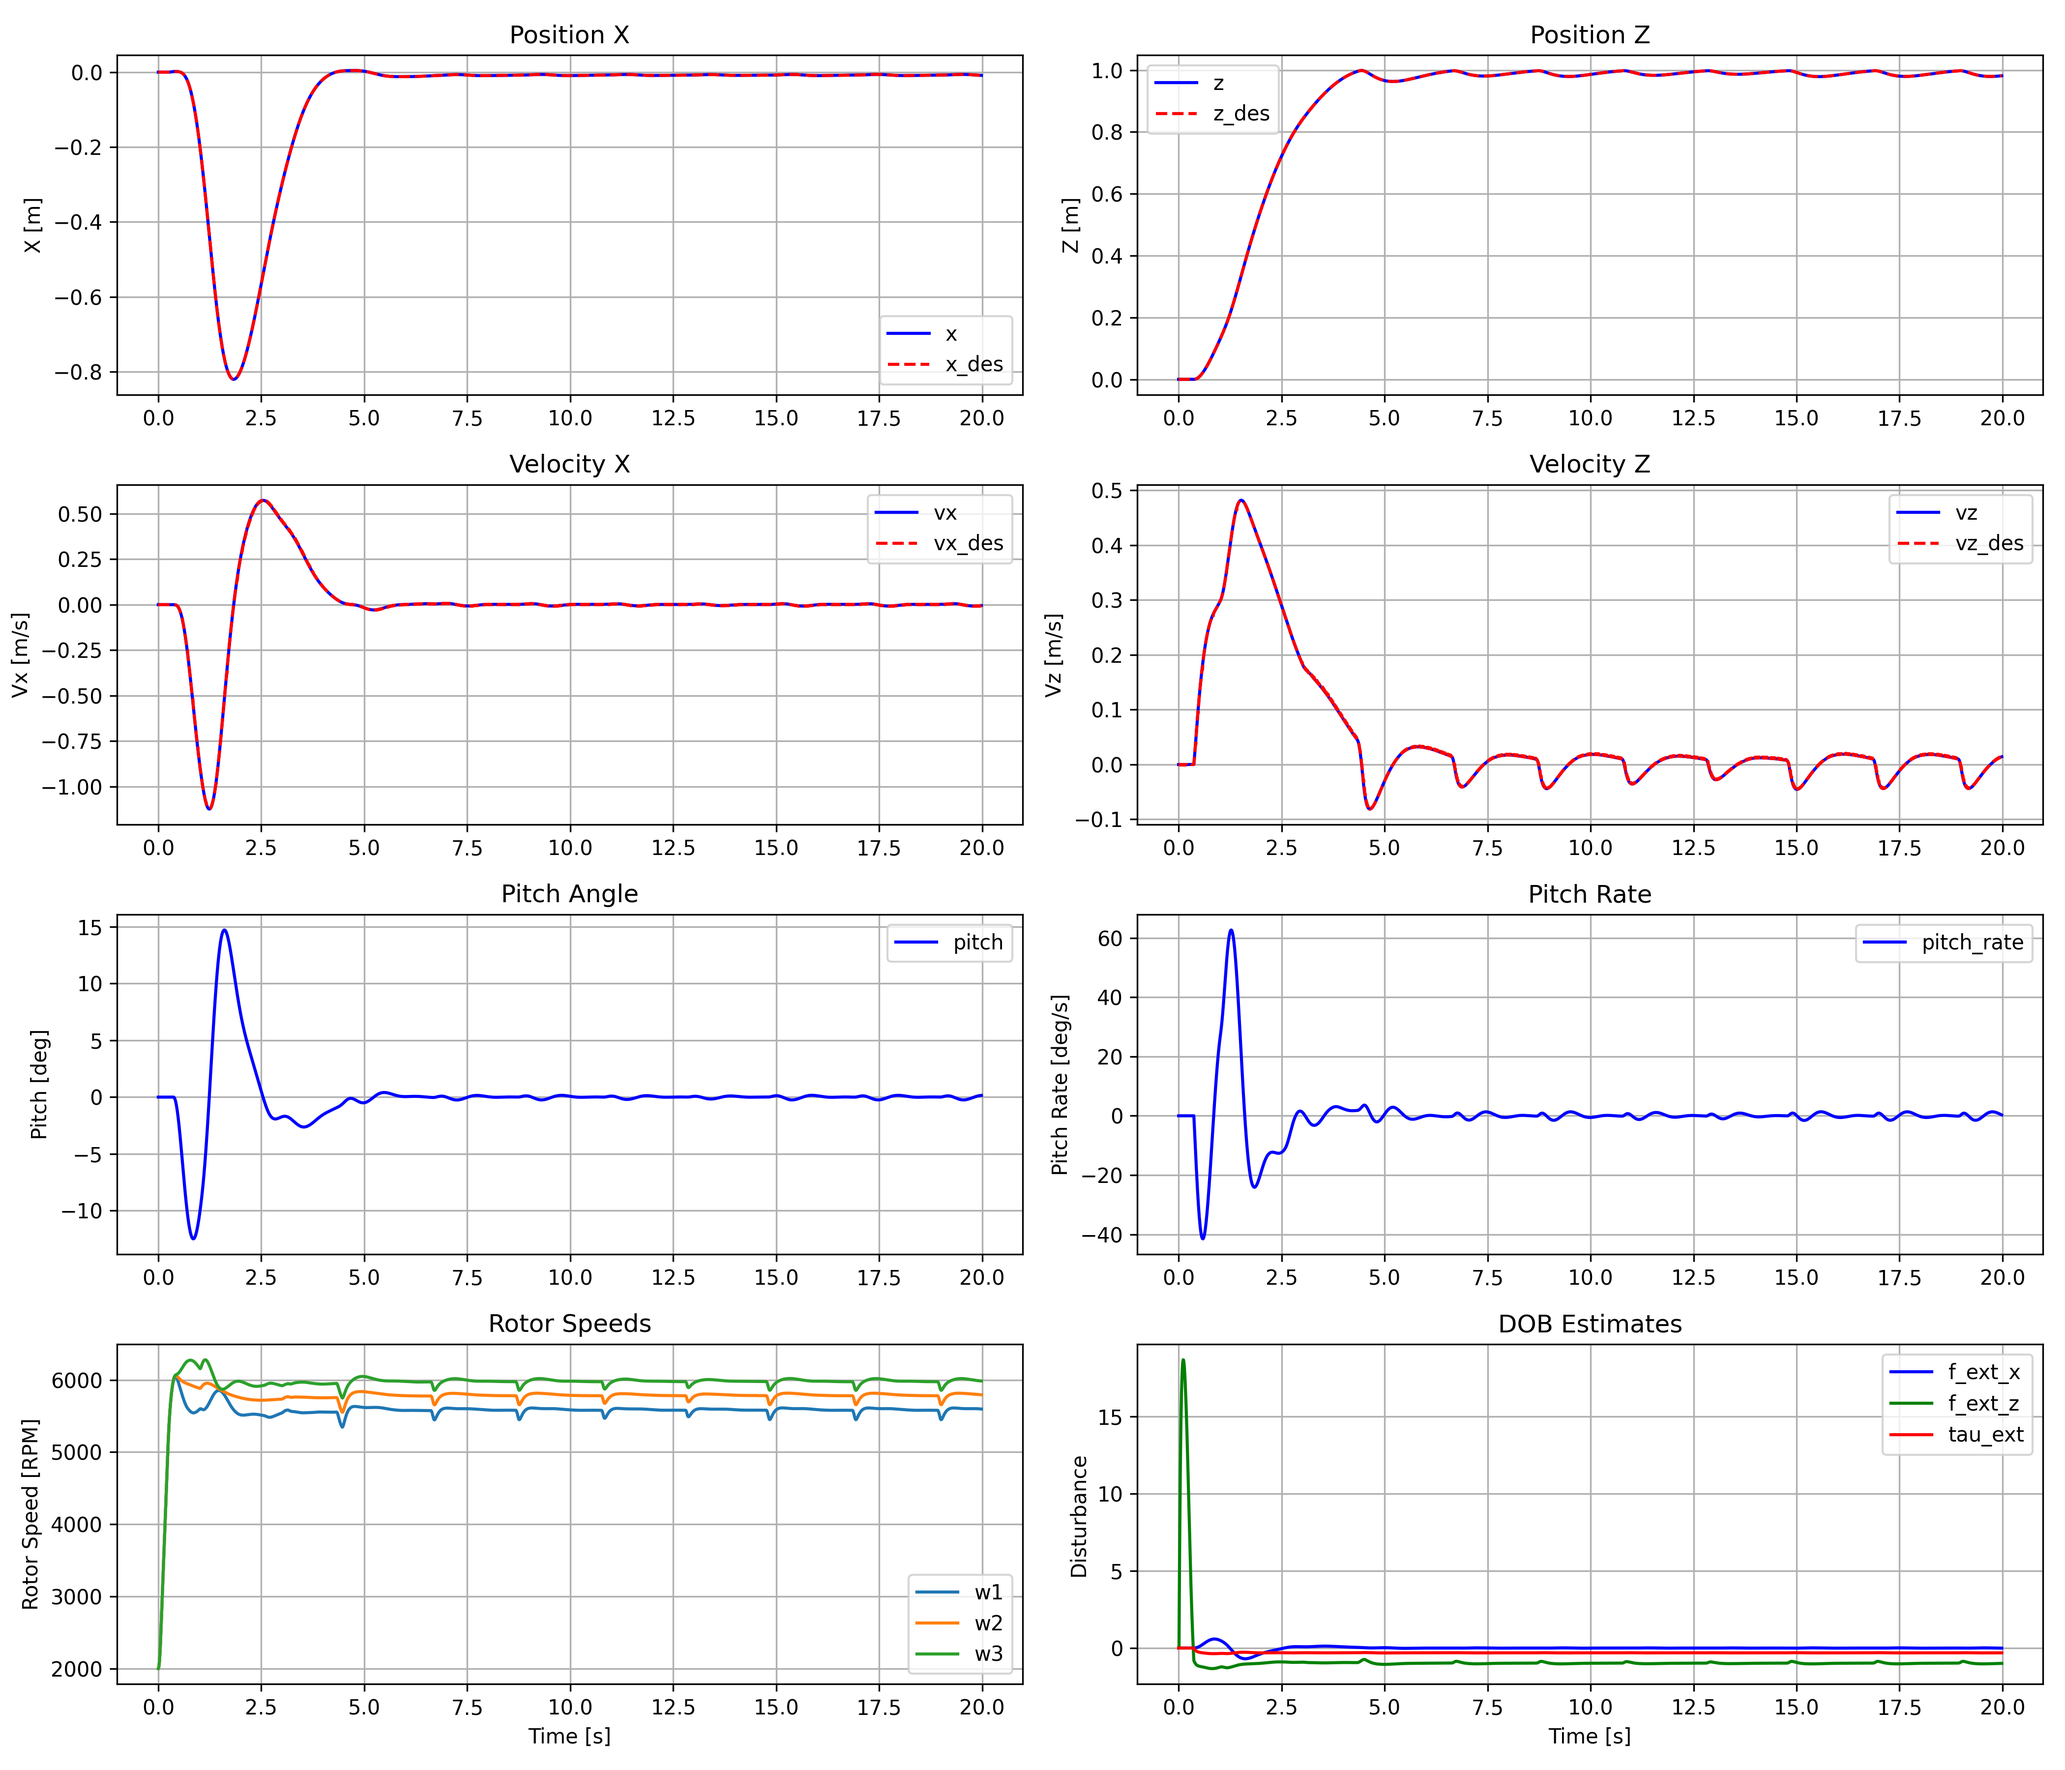
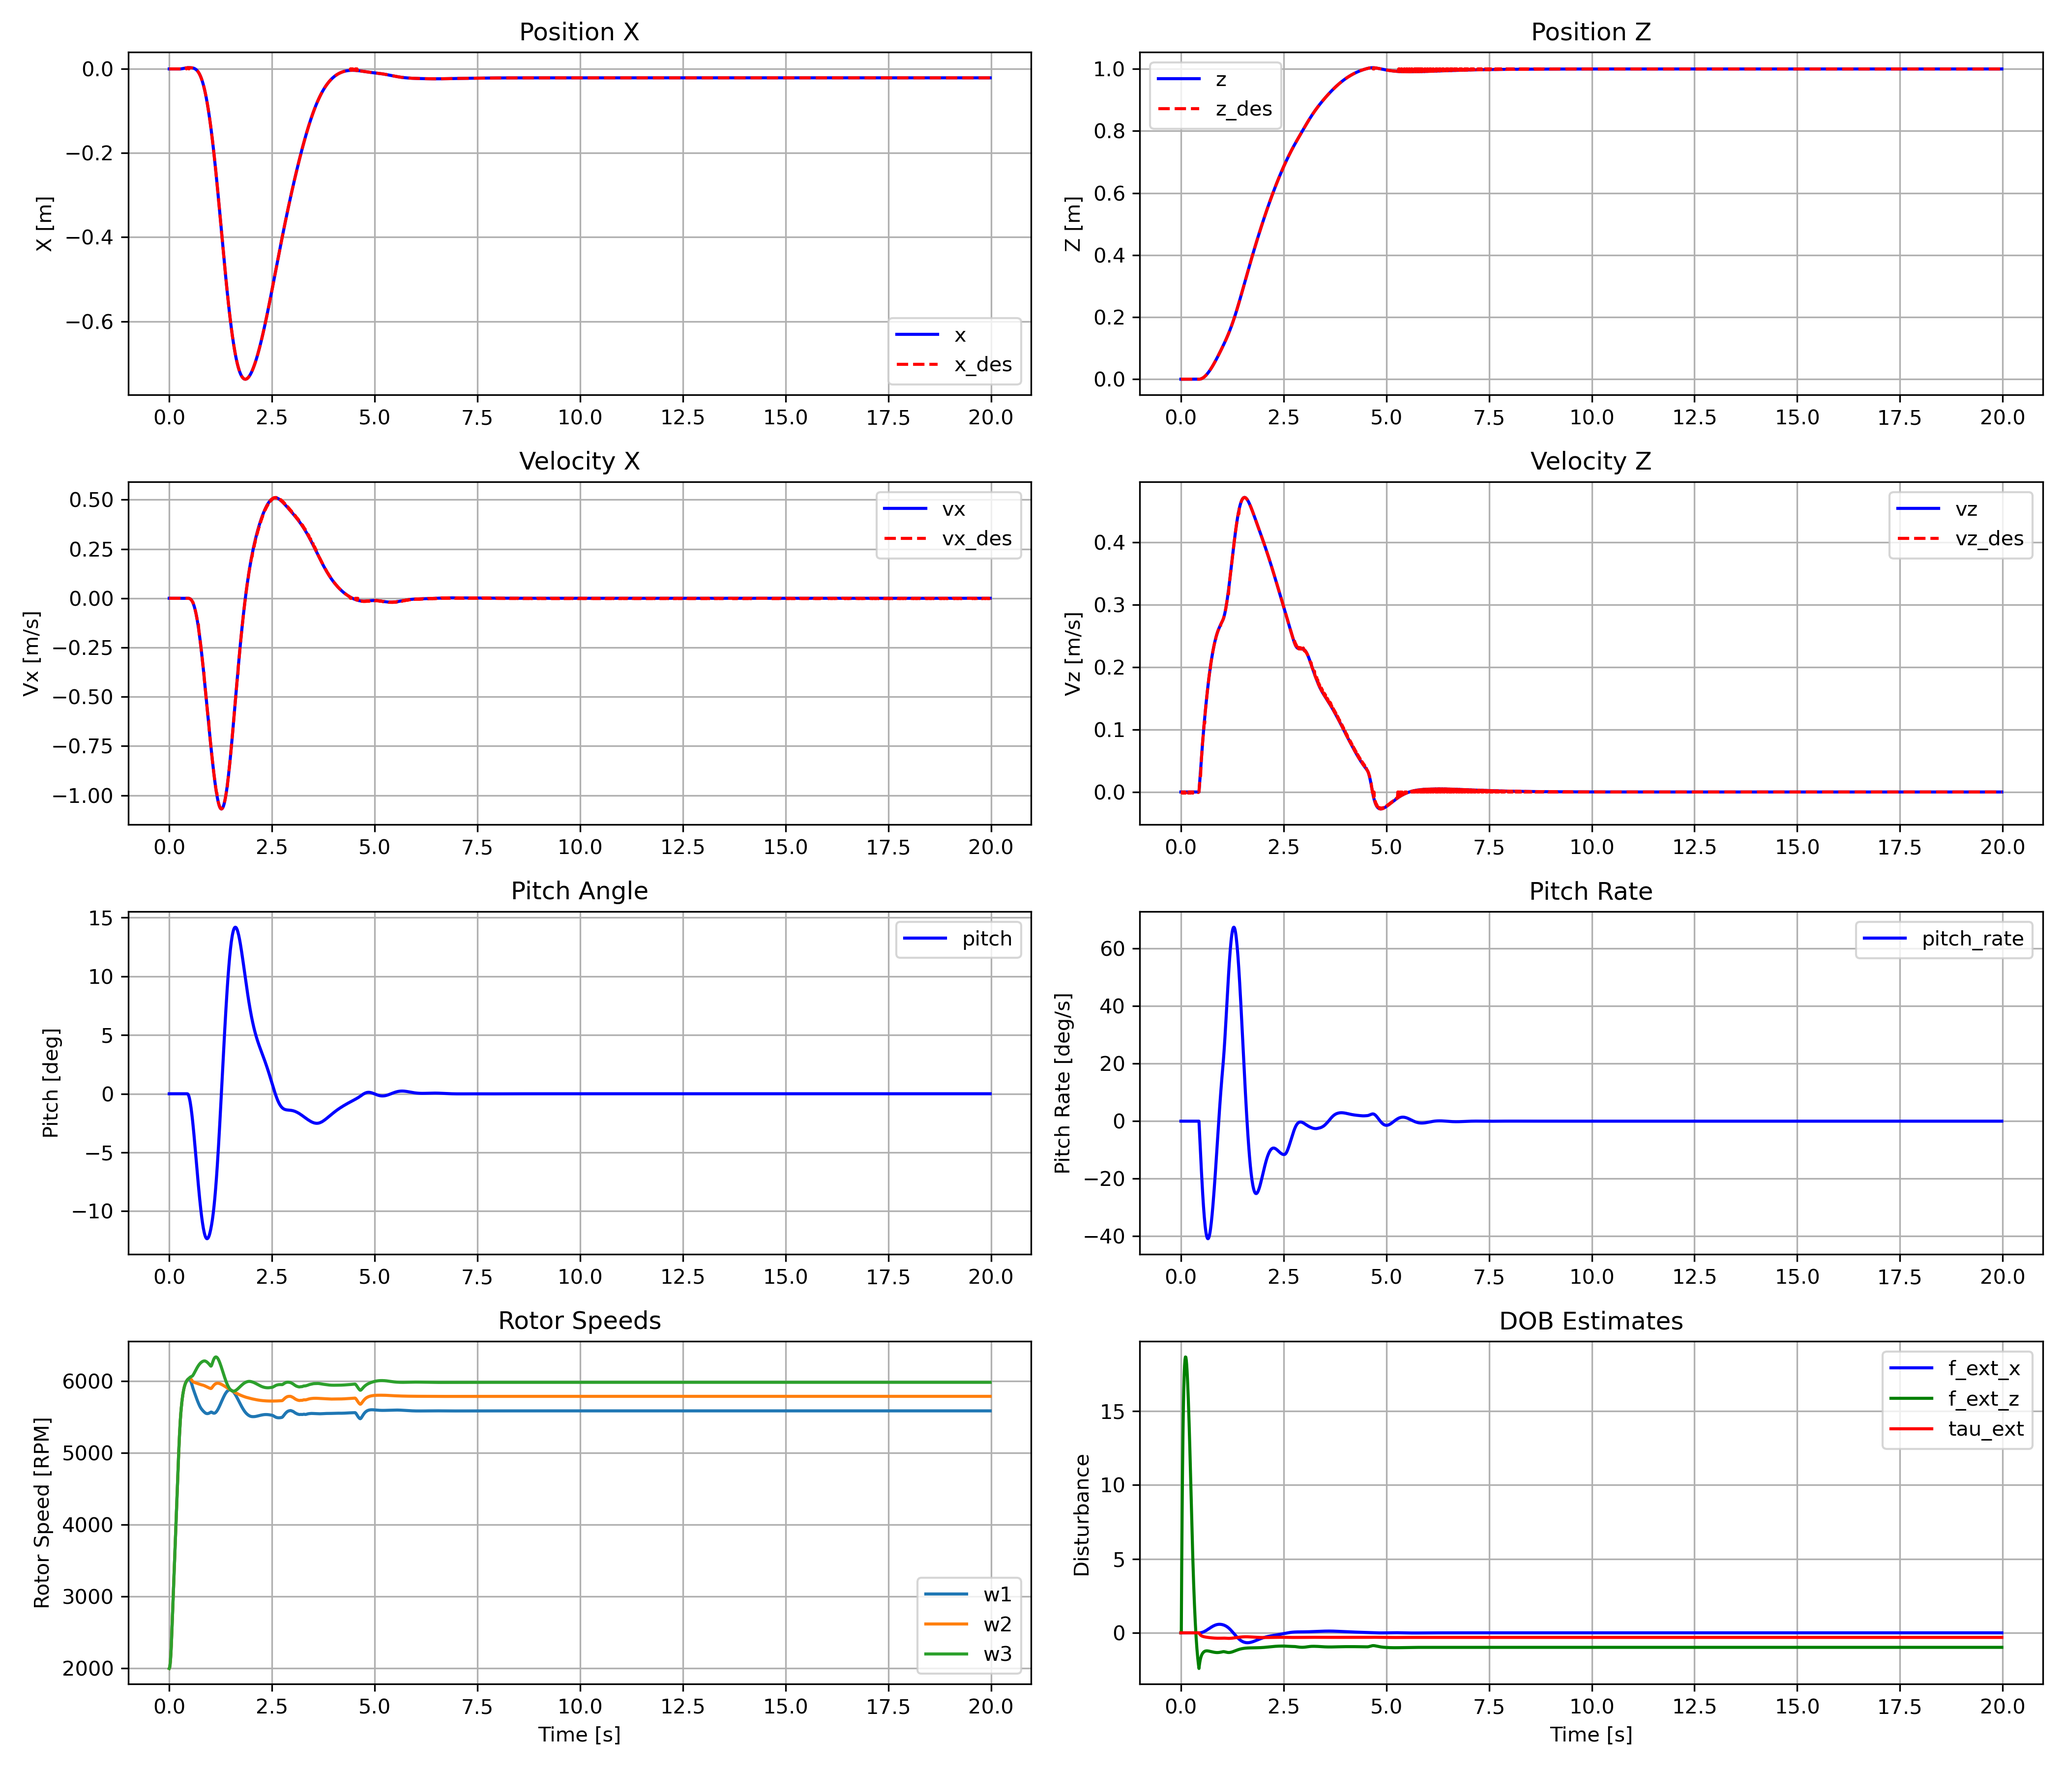
henh trajectory tolerance modified

diff --git a/ref_generation/hehn_trajectory.py b/ref_generation/hehn_trajectory.py
@@ -49,9 +49,9 @@ class AxisTrajectory:
         self.tf = 0.0
         self._solved = False
 
-    def solve(self, tol=1e-4, tf_max=20.0):
+    def solve(self, tol=1e-2, tf_max=20.0):
         """Solve for minimum-time trajectory."""
-        if abs(self.w0)<1e-6 and abs(self.v0)<1e-6 and abs(self.a0)<1e-6:
+        if abs(self.w0)<1e-2 and abs(self.v0)<1e-2 and abs(self.a0)<1e-6:
             self.tf=0; self._solved=True; return 0.0
         if self.j<1e-12:
             self.tf=tf_max; self._solved=True; return self.tf
